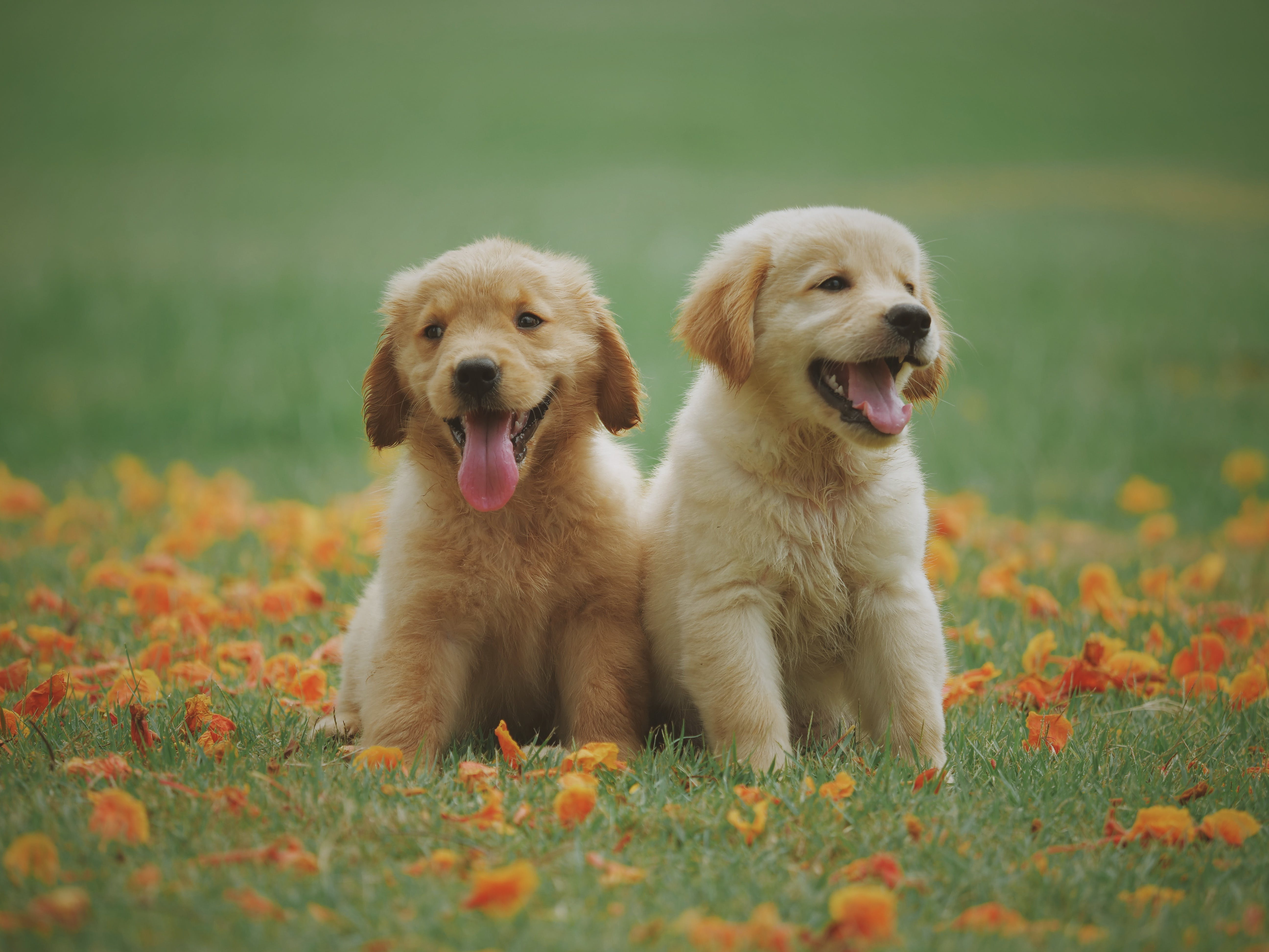
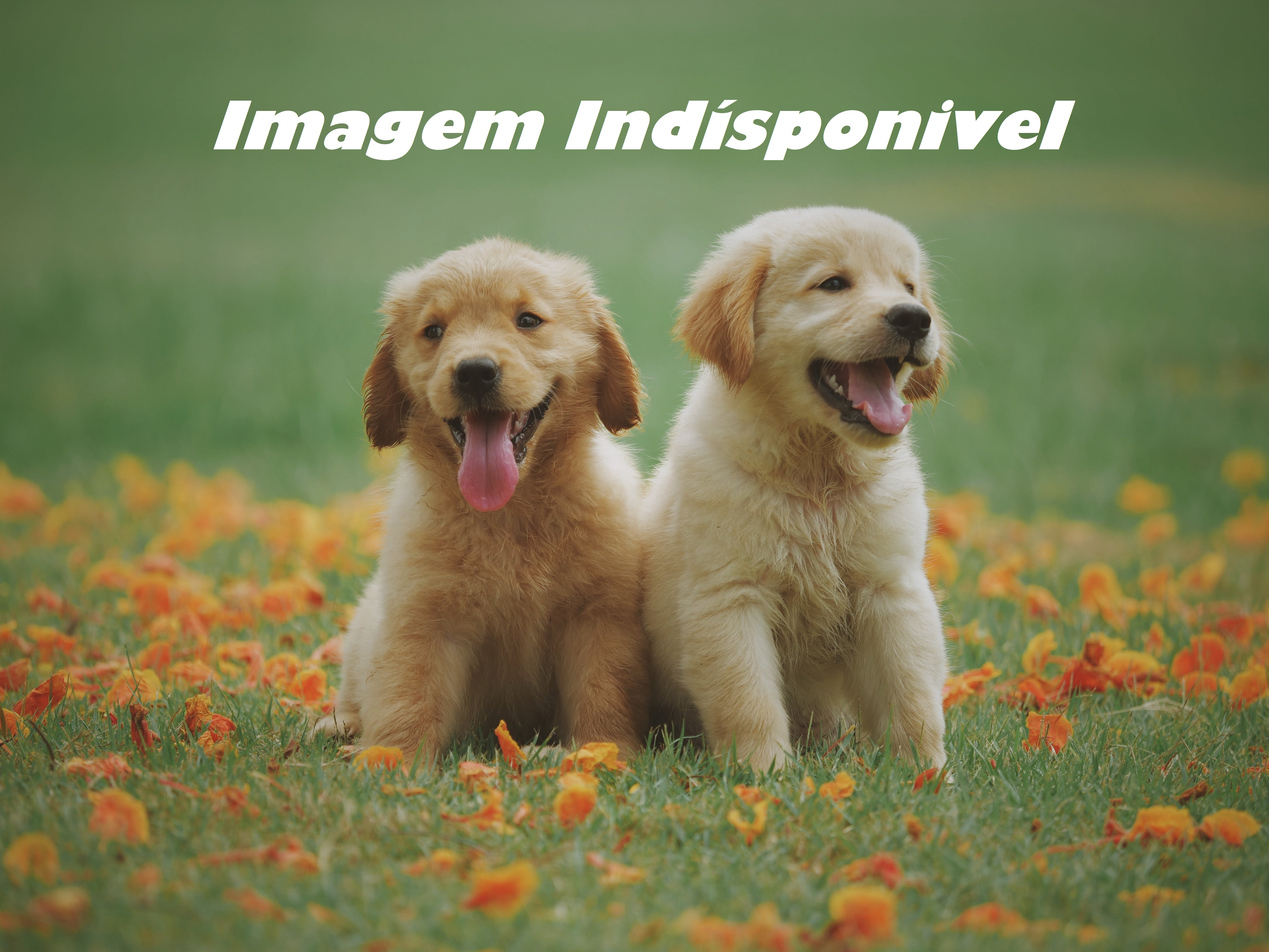
PROJECT FINAL VERSION

Changed region(s): [[0.1562, 0.0934, 0.8438, 0.1867]]

diff --git a/store.html b/store.html
@@ -23,8 +23,7 @@
                 <span class="navbar-toggler-icon"></span>
             </button>
             <div class="collapse navbar-collapse" id="navbarNavAltMarkup">
-                <div class="navbar-nav ms-auto">
-                    
+                <div class="navbar-nav ms-auto">      
                     <a class="nav-link" href="#index" onclick="menuNav(this)">Inicio</a>
                     <a class="nav-link" href="#about" onclick="menuNav(this)">Sobre nós</a>
                     <a class="nav-link active" href="#store" onclick="menuNav(this)">Loja</a>
@@ -41,32 +40,32 @@
     <div class="container mt-5 p-3">
         <h1>Loja</h1>
         <div class="row">
-            <div class="col-12 col-md-6 col-lg-4 mb-4">
-                <div class="card card-store" >
+            <div class="col-12 col-md-4 col-lg-4 mb-4">
+                <div class="card card-store">
                     <img src="Img/store/dogfood.png" class="card-img-top img-prod" alt="Comida cão adulto Carne">
                     <div class="card-body">
-                        <h5 class="card-title" id="produto1" >Comida para cão</h5>
+                        <h5 class="card-title" id="produto1" >Comida para Cão com bife </h5>
                         <p class="card-text">Comida para cães adultos Pedigree com bife</p>
                         <a href="#" class="btn btn-primary" value="caoadulto" onclick="btnBuy(1)">Comprar</a>
                         <div class="col mb-4"></div>
                         <div class="input-group">
                             <span class="input-group-btn">
-                                <button class="btn btn-danger btn-minuse" type="button" onclick="minus(1)" >-</button>
+                                <button class="btn btn-danger btn-minuse" onclick="minus(1)" type="button">-</button>
                             </span>
                             <input type="text" class="form-control no-padding add-color text-center height-25"
                                 maxlength="3" id="input1" value="0">
                             <span class="input-group-btn">
-                                <button class="btn btn-success btn-pluss" type="button" onclick="plus(1)">+</button>
+                                <button class="btn btn-success btn-pluss" onclick="plus(1)" type="button">+</button>
                             </span>
                         </div>
                     </div>
                 </div>
             </div>
-            <div class="col-12 col-md-6 col-lg-4 mb-4">
+            <div class="col-12 col-md-4 col-lg-4 mb-4">
                 <div class="card card-store" >
                     <img src="Img/store/dogfood2.png" class="card-img-top img-prod" alt="Comida cão adulto Vegetariano">
                     <div class="card-body">
-                        <h5 class="card-title" id="produto2">Comida para Cão</h5>
+                        <h5 class="card-title" id="produto2">Comida para Cão Galinha e vegetais</h5>
                         <p class="card-text">Comida para cães adultos Pedigree com Galinha e vegetais</p>
                         <a href="#" class="btn btn-primary carrinho" value="caovegetariano" onclick="btnBuy(2)">Comprar</a>
                         <div class="col mb-4"></div>
@@ -83,11 +82,11 @@
                     </div>
                 </div>
             </div>
-            <div class="col-12 col-md-6 col-lg-4 mb-4">
+            <div class="col-12 col-md-4 col-lg-4 mb-4">
                 <div class="card card-store" >
                     <img src="Img/store/dogfood3.png" class="card-img-top img-prod" alt="Comida cão bebé">
                     <div class="card-body">
-                        <h5 class="card-title" id="produto3">Comida para Cão</h5>
+                        <h5 class="card-title" id="produto3">Comida para Cão bebé Galinha e Leite</h5>
                         <p class="card-text">Comida para cães bebés Pedigree com Galinha e Leite</p>
                         <a href="#" class="btn btn-primary carrinho" value="caobebe" onclick="btnBuy(3)">Comprar</a>
                         <div class="col mb-4"></div>
@@ -265,7 +264,6 @@
                         <p>
                             Projeto efetuado na Unidade Curricular de Programação Web-Cliente.
                         <p>Elaborado Por: André Barroso, Joel Barbeiro, Pedro Lourenço.</p>
-                        </p>
                     </div>
                     <!-- Grid column -->
                     <div class="col-md-4 col-lg-2 col-xl-2 mx-auto mb-4">

diff --git a/assets/api.js b/assets/api.js
@@ -60,20 +60,20 @@ function getPet(apiToken) {
             status: "adoptable"
         },
         success: function (result) {
-            var count=0;
+            var count = 0;
+            var addedPetNames = [];
             $.each(result.animals, function (index, pet) {
-                if (pet.name[index] == pet.name[index + 1]) {
-                  pet == null;  
+                if (addedPetNames.includes(pet.name)) {
+                    return; 
                 }
+                addedPetNames.push(pet.name); 
                 if (window.location.pathname.split("/").pop() == "foradoption.html" || window.location.pathname.split("/").pop() == "favorites.html") {
                     cloneCard(index, pet);
                 }
                 if (window.location.pathname.split("/").pop() == "index.html") {
-                    if (pet.primary_photo_cropped != null) {
-                        carouselConstructorHeading(pet, count)
+                        carouselConstructorHeading(pet, count);
                         carouselConstructor(pet, count);
                         count++;
-                    }
                 }
             });
             $(".modal-dialog").hide();

diff --git a/assets/constructors.js b/assets/constructors.js
@@ -29,8 +29,11 @@ function carouselConstructorHeading(pet, count) {
     }
 }
 function carouselConstructor(pet, count) {
-
+    if (pet.primary_photo_cropped != null) {
     $(".dog-show-" + count).append('<img class="img-index w-100 img-pet img-pet-carousel btn-details" src="' + pet.primary_photo_cropped.medium + '" alt="Image of ' + pet.name + '">');
+    } else {
+        $(".dog-show-" + count).append('<img class="img-index w-100 img-pet img-pet-carousel btn-details" src="Img/carousel/precisodeumdonocaesparaadocao-01.jpg" alt="Image of ' + pet.name + '">');
+    }
     var carouselCaption = $('<div class="carousel-caption d-md-block backg btn-details" >')
     carouselCaption.append('<h5>' + pet.name + '</h5>');
     carouselCaption.append('<p>Clique para detalhes</p>');

diff --git a/css/style.css b/css/style.css
@@ -124,6 +124,7 @@ button.btn {
 
 .card-store{
     width: 100%;
+    height: 100%;
 }
 
 .img-about{
@@ -156,4 +157,4 @@ button.btn {
         height: 100%;
         object-fit: cover;
     } 
-}
+}   
